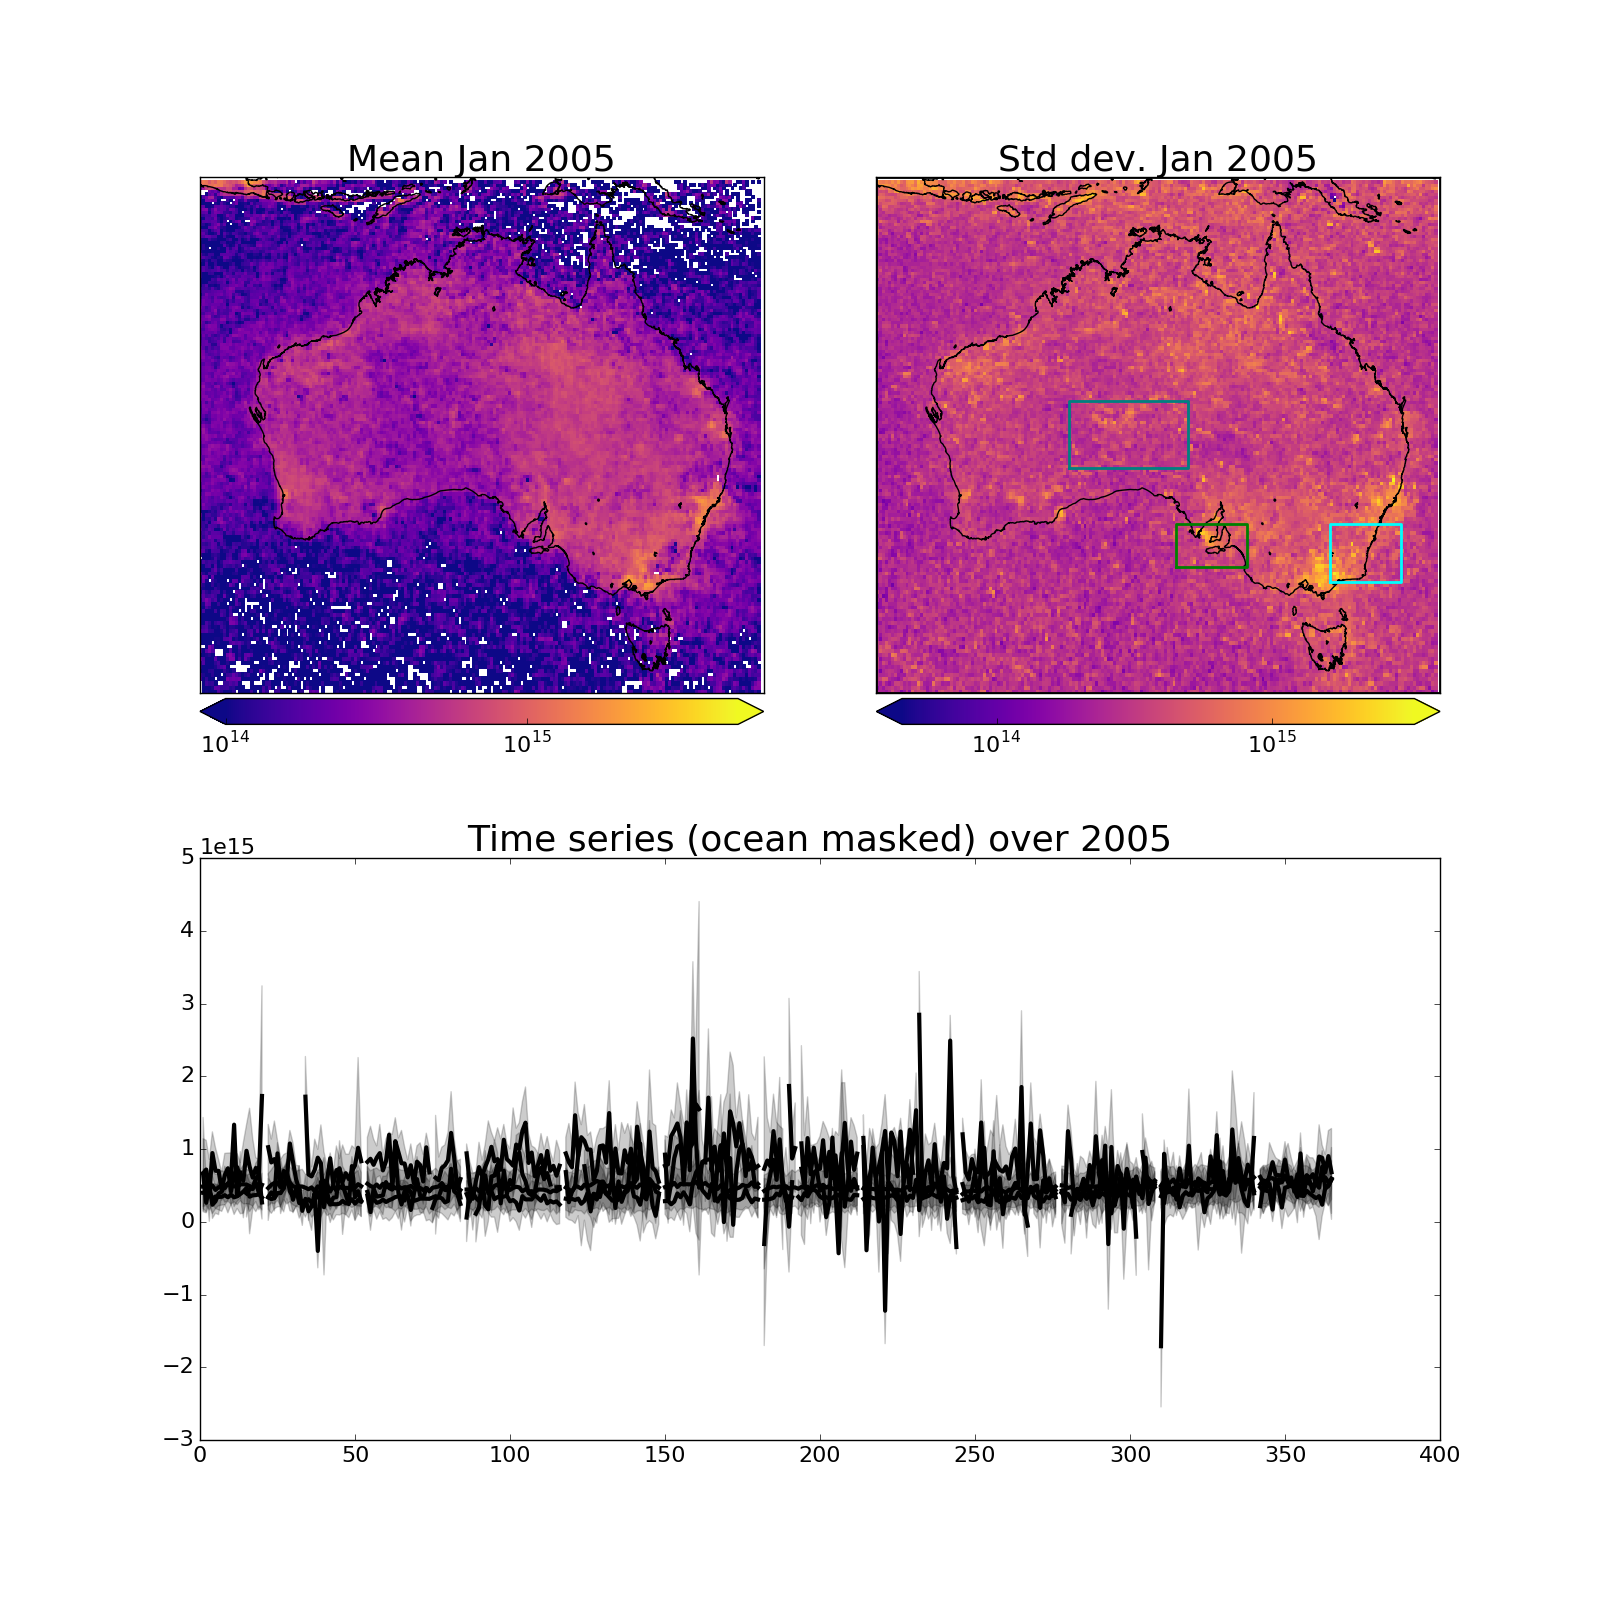
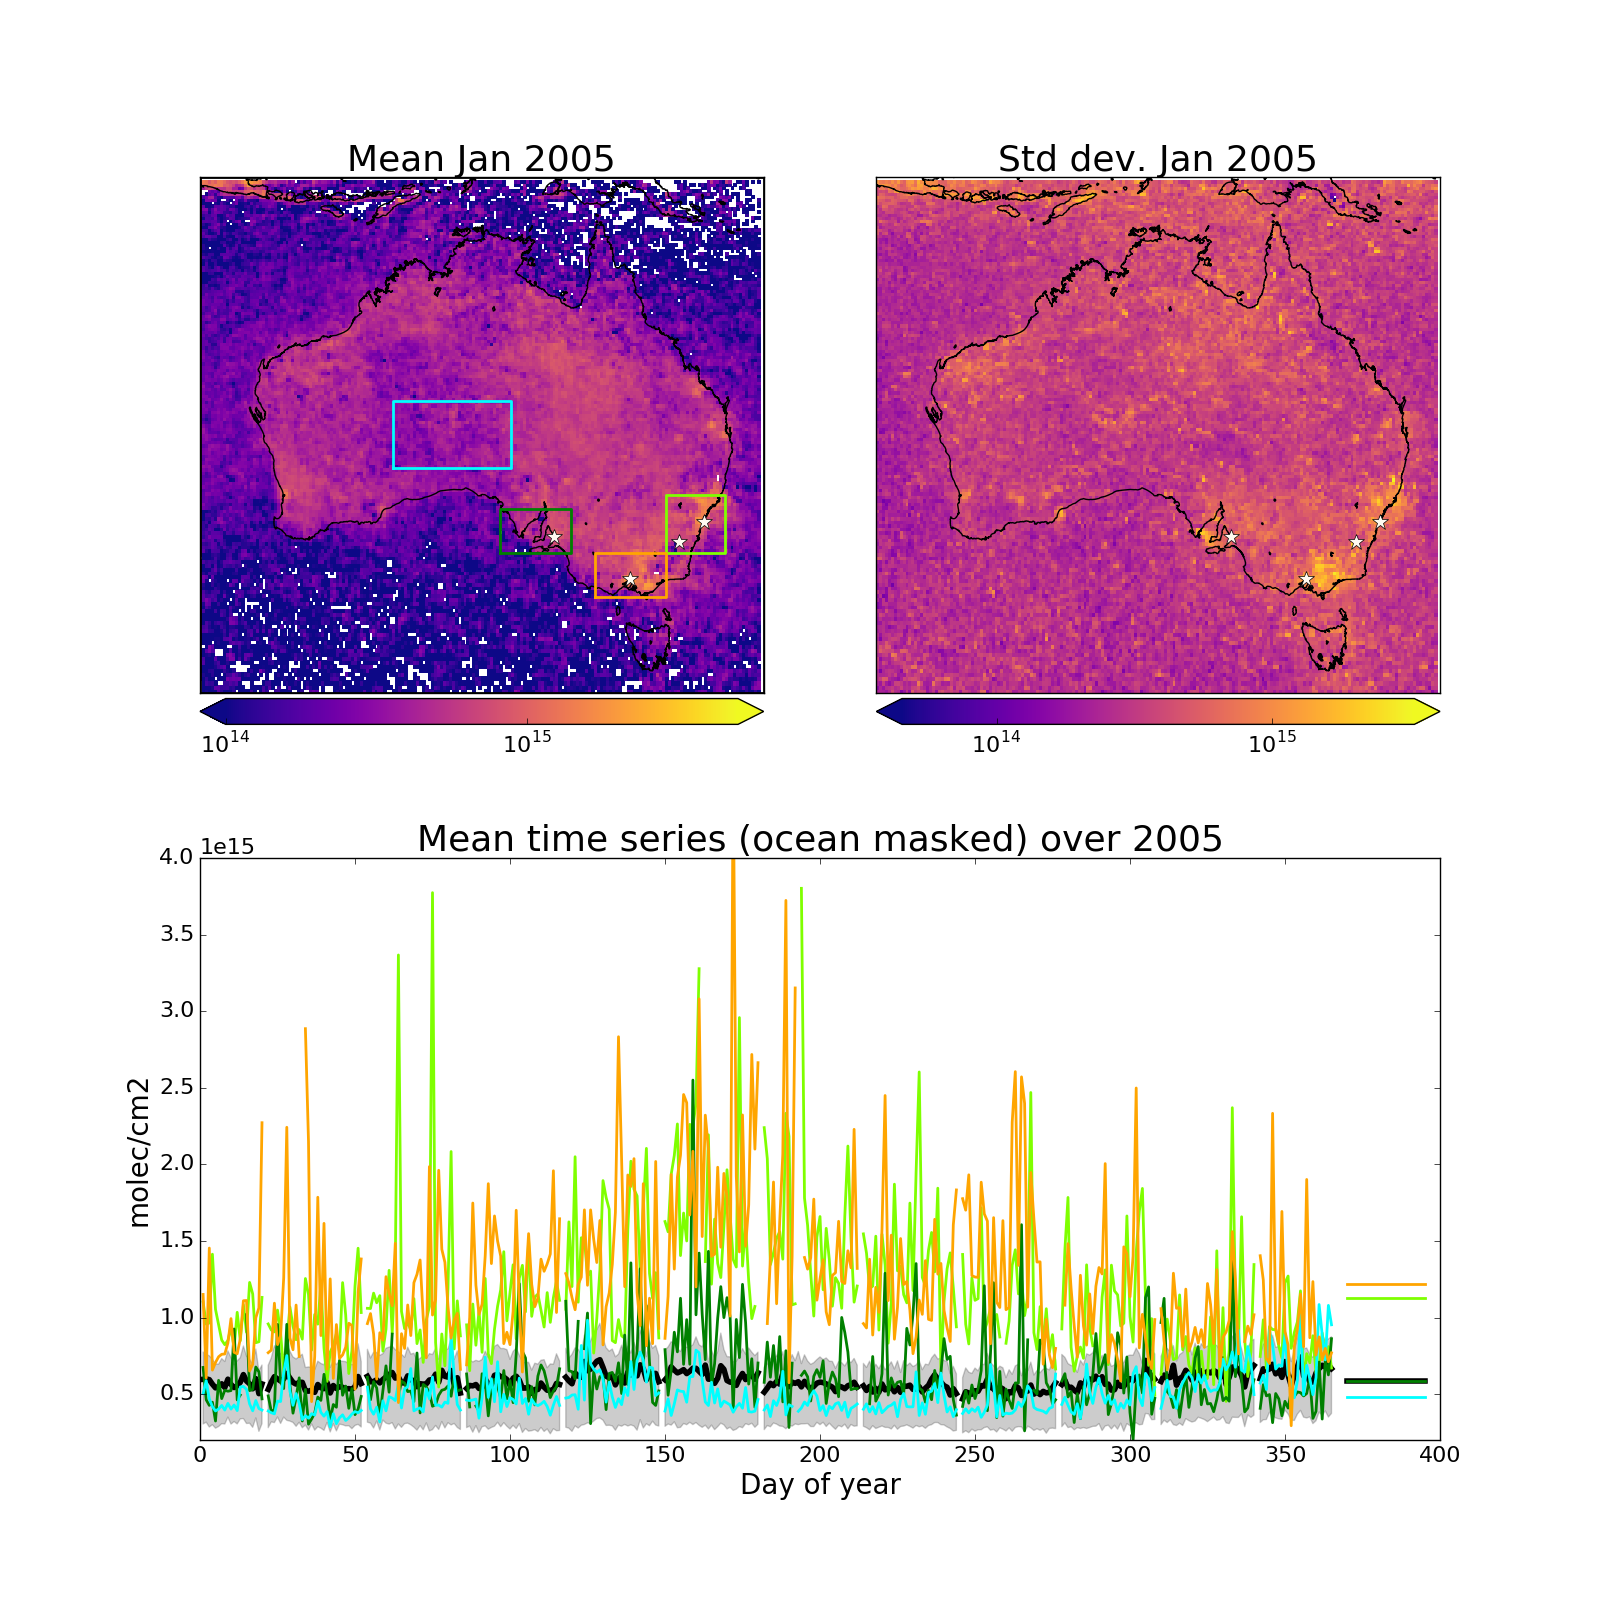
Updated OMNO2d plotting

diff --git a/tests.py b/tests.py
@@ -37,7 +37,15 @@ import timeit
 #elapsed = timeit.default_timer() - start_time
 #print ("TIMEIT: Took %6.2f seconds to runprocess()"%elapsed)
 
+##############################
+######### GLOBALS ############
+##############################
 
+cities = {'Syd':[-33.87,151.21], # Sydney
+          'Can':[-35.28,149.13], # Canberra
+          'Mel':[-37.81,144.96], # Melbourne
+          'Ade':[-34.93,138.60], # Adelaide
+         }
 
 Ohcho='$\Omega_{HCHO}$'
 Ovc='$\Omega_{VC}$'
@@ -72,44 +80,14 @@ def check_array(array, nonzero=False):
 ######################       TESTS                  #########################
 #############################################################################
 
-def typical_no2(year=datetime(2005,1,1), region=pp.__AUSREGION__):
+def omno2d_filter_determination(year=datetime(2005,1,1),
+                                thresh=1e15,
+                                region=pp.__AUSREGION__):
     '''
-        Plot of NO2 from OMNO2d product over Australia, including density plots
+        examine year of omno2d and look at densities and threshhold
     '''
-    mstr=year.strftime('%b %Y')
-    plotname=year.strftime('Figs/typical_OMNO2_%Y.png')
 
-    # First read month and plot avg and std
-    dat,attrs=fio.read_omno2d(year,util.last_day(year))
-    # Tropospheric cloud screened (<30%) no2 columns (molec/cm2)
-    no2=dat['tropno2']
-    lats=dat['lats']
-    lons=dat['lons']
-    #no2_min, no2_max  = np.nanmin(no2,axis=0), np.nanmax(no2,axis=0)
-    no2_mean, no2_std = np.nanmean(no2,axis=0), np.nanstd(no2,axis=0)
-    subset=util.lat_lon_subset(lats,lons,region,[no2_mean,no2_std])
-    lats=subset['lats']
-    lons=subset['lons']
-
-    # plot stuff:
-    cmapname='plasma'
-    plt.figure(figsize=[16,16])
-    # MEAN | STDev
-    titles = ['Mean %s'%mstr, 'Std dev. %s'%mstr]
-    vmins  = [1e14, None]
-    vmaxes = [5e15, None]
-    axes=[]
-    for i,arr in enumerate(subset['data']):
-        axes.append(plt.subplot(2,2,i+1))
-        vmin,vmax=vmins[i],vmaxes[i]
-        bmap,cs,cb = pp.createmap(arr,lats,lons,region=region,
-                                  vmin=vmin,vmax=vmax,
-                                  cmapname=cmapname)
-        plt.title(titles[i])
-
-
-    # now read whole year and do yearly averaged time series for subsets of Australia
-    #
+    # First read and whole year of NO2
     dat, attrs = fio.read_omno2d(datetime(year.year,1,1), util.last_day(datetime(year.year,12,1)))
     # Tropospheric cloud screened (<30%) no2 columns (molec/cm2)
     no2_orig=dat['tropno2']
@@ -118,48 +96,190 @@ def typical_no2(year=datetime(2005,1,1), region=pp.__AUSREGION__):
     dates=dat['dates']
     doys=[d.timetuple().tm_yday for d in dates]
 
-    # Bottom row
-    axes.append(plt.subplot(2,1,2))
-
-    # Subset to desired region
+    # Want to look at timeseires and densities in these subregions:
     subzones=[region, # All of Australia
-              [-38,147,-34,153], # Canberra and Sydney
-              [-37,134,-34,140], # Adelaide and port lincoln
+              [-36,148,-32,153], # Canberra, Newcastle, and Sydney
+              [-36,134,-33,140], # Adelaide and port lincoln
               [-30,125,-25,135], # Emptly land
-              ]# Melbourne]
-    colors=['k','cyan','green','teal']
-    for i,subzone in enumerate(subzones):
-        # Subset our data to subzone
-        lati,loni=util.lat_lon_range(lats,lons,subzone)
-        no2 = np.copy(no2_orig)
-        no2 = no2[:,lati,:]
-        no2 = no2[:,:,loni]
+              [-39,142,-36,148], # Melbourne
+              ]
+    colors=['k','red','green','cyan','darkred']
 
-        # Add square to first map:
-        plt.sca(axes[1])
-        pp.add_rectangle(bmap,subzone,color=colors[i],linewidth=2)
+    # Make two plots using following two subfunctions
+    def no2_threshcheck():
+        '''
+            Look at densities of no2 pixels from omno2d
+        '''
+        plotname=year.strftime('Figs/OMNO2_densities_%Y.png')
+        no2=np.copy(no2_orig)
+
+        # Get mean for whole year
+        no2_mean = np.nanmean(no2,axis=0)
+
+        # plot map with regions:
+        plt.figure(figsize=[16,14])
+
+        cmapname='plasma'
+        title = 'Mean OMNO2d %d'%year.year
+        vmin = 1e14
+        vmax = 1e15
+        plt.subplot(2,2,1)
+        bmap,cs,cb = pp.createmap(no2_mean,lats,lons,region=region,
+                                  vmin=vmin,vmax=vmax, clabel='molec/cm2',
+                                  cmapname=cmapname)
+        plt.title(title)
+        # Add cities to map
+        for city,latlon in cities.items():
+            pp.add_point(bmap,latlon[0],latlon[1],markersize=12,
+                         color='floralwhite', label=city, fontsize=10)
+
+        # Add squares to first map:
+        for i,subzone in enumerate(subzones):
+            pp.add_rectangle(bmap,subzone,color=colors[i],linewidth=2)
+
+        # One density plot for each region in subzones
+        for i,subzone in enumerate(subzones):
+            # Subset our data to subzone
+            lati,loni=util.lat_lon_range(lats,lons,subzone)
+            no2 = np.copy(no2_orig)
+            no2 = no2[:,lati,:]
+            no2 = no2[:,:,loni]
 
 
-        # Mask ocean
-        oceanmask=util.get_mask(no2[0],lats[lati],lons[loni],masknan=False,maskocean=True)
-        print("Removing %d ocean pixels"%(365*np.sum(oceanmask)))
-        no2[:,oceanmask] = np.NaN
+
+            # Mask ocean
+            oceanmask=util.get_mask(no2[0],lats[lati],lons[loni],masknan=False,maskocean=True)
+            print("Removing %d ocean pixels"%(365*np.sum(oceanmask)))
+            no2[:,oceanmask] = np.NaN
+
+            # Also remove negatives?
+            negmask=no2 < 0
+            print("Removing %d negative pixels"%(np.sum(negmask)))
+            no2[negmask]=np.NaN
+
+            # all Australia density map
+            bw=5e13 # bin widths
+            if i == 0:
+                plt.subplot(2, 2, 2)
+                pp.density(no2,bw=bw,color=colors[i], linewidth=2)
+            else:
+                plt.subplot(2,4,i+4)
+                pp.density(no2,bw=bw, color=colors[i], linewidth=2) # should work with 3d
+            plt.xlim([0,5e15])
+            #plt.plot([thresh,thresh],[])
+            ## change to log y scale?
+            #plt.ylim([2e14, 4e15])
+            #plt.yscale('log')
+            #plt.ylabel('molec/cm2')
+            #plt.yticks([2e14,5e14,1e15,4e15])
+            #plt.xlabel('Day of year')
+
+        plt.suptitle("OMNO2d NO2 columns %d"%year.year)
+        plt.savefig(plotname)
+        print("saved ",plotname)
+        plt.close()
+
+    def typical_no2():
+        '''
+            Plot of NO2 from OMNO2d product over Australia, including time series
+        '''
+
+        plotname=year.strftime('Figs/OMNO2_timeseries_%Y.png')
 
 
-        # get mean and percentiles of interest for plot
-        #std = np.nanstd(no2,axis=(1,2))
-        upper = np.nanpercentile(no2,75,axis=(1,2))
-        lower = np.nanpercentile(no2,25,axis=(1,2))
-        mean= np.nanmean(no2,axis=(1,2))
+        # Tropospheric cloud screened (<30%) no2 columns (molec/cm2)
+        no2=np.copy(no2_orig)
 
-        # plot onto time series with light filling
-        plt.sca(axes[2])
-        plt.plot(doys, mean, color='k',linewidth=3)
-        plt.fill_between(doys, lower, upper, color='k',alpha=0.2)
-    plt.title('Time series (ocean masked) over %d'%year.year)
+        no2_mean, no2_std = np.nanmean(no2,axis=0), np.nanstd(no2,axis=0)
+        subset=util.lat_lon_subset(lats,lons,region,[no2_mean,no2_std])
+        sublats=subset['lats']
+        sublons=subset['lons']
+        # plot stuff:
+        cmapname='plasma'
+        plt.figure(figsize=[16,16])
+        # MEAN | STDev
+        titles = ['Mean %d'%year.year, 'Standard deviation %d'%year.year]
+        vmins  = [1e14, None]
+        vmaxes = [5e15, None]
 
-    plt.savefig(plotname)
-    print("saved ",plotname)
+        axes=[]
+        bmaps=[]
+        for i,arr in enumerate(subset['data']):
+            axes.append(plt.subplot(2,2,i+1))
+            vmin,vmax=vmins[i],vmaxes[i]
+            bmap,cs,cb = pp.createmap(arr,sublats,sublons,region=region,
+                                      vmin=vmin,vmax=vmax, clabel='molec/cm2',
+                                      cmapname=cmapname)
+            plt.title(titles[i])
+            bmaps.append(bmap) # save the bmap for later
+            # Add cities to map
+            for city,latlon in cities.items():
+                pp.add_point(bmap,latlon[0],latlon[1],markersize=12,
+                             color='floralwhite', label=city, fontsize=10)
+
+        # Bottom row
+        axes.append(plt.subplot(2,1,2))
+
+        # For each subset here, plot the timeseries
+        lw=[4,2,2,2,2]
+
+        for i,subzone in enumerate(subzones):
+            # Subset our data to subzone
+            no2=np.copy(no2_orig)
+            lati,loni=util.lat_lon_range(lats,lons,subzone)
+            no2 = no2[:,lati,:]
+            no2 = no2[:,:,loni]
+
+            # Add square to first map:
+            plt.sca(axes[0])
+            pp.add_rectangle(bmaps[0],subzone,color=colors[i],linewidth=2)
+
+
+            # Mask ocean
+            oceanmask=util.get_mask(no2[0],lats[lati],lons[loni],masknan=False,maskocean=True)
+            print("Removing %d ocean pixels"%(365*np.sum(oceanmask)))
+            no2[:,oceanmask] = np.NaN
+
+            # Also remove negatives
+            negmask=no2 < 0
+            print("Removing %d negative pixels"%(np.sum(negmask)))
+            no2[negmask]=np.NaN
+
+            # get mean and percentiles of interest for plot
+            #std = np.nanstd(no2,axis=(1,2))
+            upper = np.nanpercentile(no2,75,axis=(1,2))
+            lower = np.nanpercentile(no2,25,axis=(1,2))
+            mean = np.nanmean(no2,axis=(1,2))
+            totmean = np.nanmean(no2)
+
+            # plot onto time series
+            plt.sca(axes[2])
+
+            plt.plot(doys, mean, color=colors[i],linewidth=lw[i])
+            # Add IQR shading for first plot
+            if i==0:
+                plt.fill_between(doys, lower, upper, color=colors[i],alpha=0.2)
+
+            # show yearly mean
+            plt.plot([370,395],[totmean,totmean], color=colors[i],linewidth=lw[i])
+
+            # change to log y scale?
+            plt.ylim([2e14, 4e15])
+            plt.yscale('log')
+            plt.ylabel('molec/cm2')
+            yticks=[2e14,5e14,1e15,4e15]
+            plt.yticks(yticks,yticks)
+            plt.xlabel('Day of year')
+        plt.title('Mean time series (ocean masked) over %d'%year.year)
+
+        plt.suptitle("OMNO2d NO2 columns")
+        plt.savefig(plotname)
+        print("saved ",plotname)
+        plt.close()
+
+    # Now run both those functions
+    typical_no2()
+    no2_threshcheck()
 
 def typical_aaod_month(month=datetime(2005,11,1)):
     ''' '''
@@ -2107,7 +2227,7 @@ if __name__ == '__main__':
     #analyse_VCC_pp(oneday=False, ausonly=True)
     #typical_aaods()
     #typical_aaod_month()
-    typical_no2()
+    omno2d_filter_determination()
 
 
     #for dates in [ [datetime(2005,1,1),datetime(2005,1,8)],

diff --git a/utilities/plotting.py b/utilities/plotting.py
@@ -126,6 +126,20 @@ def add_rectangle(bmap, limits, color='k', linewidth=1):
           lr[1], ll[1]]
     bmap.plot(xs, ys, latlon = True, color=color, linewidth=linewidth)
 
+def add_point(bmap, lat,lon,
+              color='k', marker='*',markersize=5,
+              label=None, fontsize=12, fontcolor='k',
+              xlabeloffset=1000,ylabeloffset=2000):
+    '''
+        Add point with optional label onto bmap
+    '''
+    x,y = bmap(lon,lat)
+
+    bmap.plot(x,y, marker, color=color, markersize=markersize)
+    if label is not None:
+        plt.text(x+xlabeloffset,y+ylabeloffset, label,
+                 color=fontcolor, fontsize=fontsize)
+
 def add_regression(X,Y,label=None, addlabel=True, exponential=False, **pargs):
     '''
     plots RMA between X and Y
@@ -375,7 +389,7 @@ def createmap(data, lats, lons, make_edges=False, GC_shift=True,
     # if no colorbar is wanted then don't return one (can be set externally)
     return m, cs, cb
 
-def density(data,lats,lons,region=None, **kdeargs):
+def density(data,lats=None,lons=None,region=None, **kdeargs):
     '''
         Plot seaborn density plot of data
         optionally subset to region
@@ -388,6 +402,21 @@ def density(data,lats,lons,region=None, **kdeargs):
         lons=subset['lons']
     #seaborn.set_style('whitegrid')
     seaborn.kdeplot(Y.flatten(),**kdeargs)
+    return Y,lats,lons
+
+def distplot(data, lats=None, lons=None, region=None, **distargs):
+    '''
+        plot seaborn distplot of data.flatten()
+    '''
+    Y=data
+    if region is not None:
+        subset=util.lat_lon_subset(lats,lons,region, data=[data])
+        Y=subset['data'][0]
+        lats=subset['lats']
+        lons=subset['lons']
+    #seaborn.set_style('whitegrid')
+    mask=np.isnan(Y.flatten())
+    seaborn.distplot(Y.flatten()[~mask],**distargs)
     return Y,lats,lons
 
 def hatchmap(m, data, lats, lons, thresh, region=None,hatch='...',color='k'):
